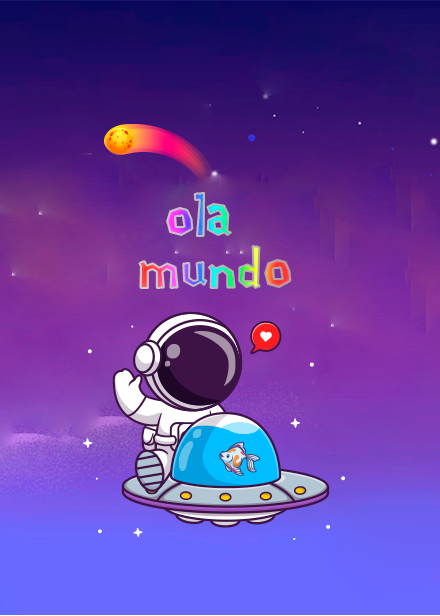
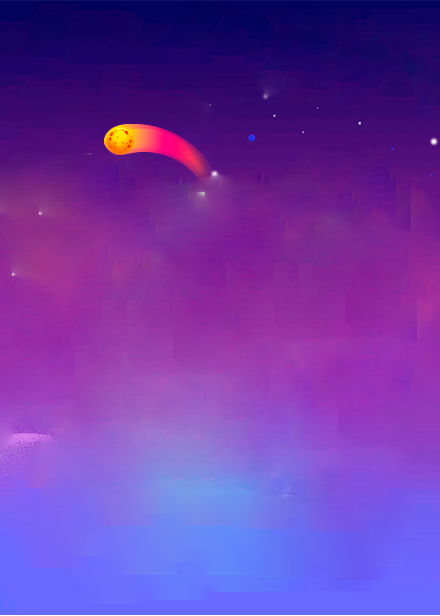
feito  grid e atualizaçãoes no responsivo

diff --git a/index.html b/index.html
@@ -10,6 +10,9 @@
     <script src="https://cdn.jsdelivr.net/npm/bootstrap@5.3.0-alpha1/dist/js/bootstrap.bundle.min.js"
         integrity="sha384-w76AqPfDkMBDXo30jS1Sgez6pr3x5MlQ1ZAGC+nuZB+EYdgRZgiwxhTBTkF7CXvN"
         crossorigin="anonymous"></script>
+    <link rel="preconnect" href="https://fonts.googleapis.com">
+    <link rel="preconnect" href="https://fonts.gstatic.com" crossorigin>
+    <link href="https://fonts.googleapis.com/css2?family=Poppins&display=swap" rel="stylesheet">
 
     <title>My Portfolio</title>
 </head>
@@ -18,27 +21,65 @@
 
     <main>
         <div class="container">
-
+                
             <div class="stars">
-                <img src="./assets/foguete.gif" alt="" class="clouds">
+                <img src="./assets/foguete.gif" alt="" class="clouds"> 
+                    <div class="responsi">
+                        <img src="./assets/spriter.png" width="70%" alt="atronauta">
+                        <h2>Olá mundo</h2>
+                    </div>
             </div>
-           
+              
+        </div>
+        
+
+        <div class="content">
+            <img src="./assets/caindo.png" width="500" alt="atronauta caindo">
+            <div class="information">
+                <h2>Quem sou eu </h2>
+                <p>Olá eu me chamo Laís Cristina este é o meu portfólio, eu sou uma garota apaixonada por tecnologia e
+                    livros eu gosto muito de games, jogar e contruir também estou atualmente no 2 semestre da faculdade
+                    e quero sar uma grande Desenvolvedora de software e não vou medir esforços para conseguir vou me
+                    mantém estudando sempre e sei que vou conseguir meu objetivo, como podem ver eu gosto de design
+                    também e ser Front End é uma grande alegria os códigos são minha maneira de expressar com um
+                    trabalho arduo que é possivel com tecnologia e estudo descobrir outros mundos..</p>
+            </div>
         </div>
         <!-- <button class="glow-on-hover" type="button">VEM ME CONHECER</button>  -->
         <div class="flip-box ">
             <div class=" face front">
                
-                <h2>Nunca deixe de sonhar</h2>
+                <video autoplay muted loop>
+                    <source src="./assets/video-first (1).mp4" type="video/mp4">
+                </video>
+                <video autoplay muted loop>
+                    <source src="./assets/video-first (2).mp4" type="video/mp4">
+                </video>
+                <video autoplay muted loop>
+                    <source src="./assets/video-first (3).mp4" type="video/mp4">
+                </video>
+                <video autoplay muted loop>
+                    <source src="./assets/video-first (4).mp4" type="video/mp4">
+                </video>
+            
+                <video autoplay muted loop>
+                    <source src="./assets/video-first (6).mp4" type="video/mp4">
+                </video>
+                <video autoplay muted loop>
+                    <source src="./assets/video-first (7).mp4" type="video/mp4">
+                </video>
+              
+
             </div>
             <div class="face back">
                 <h2>O mundo é feito de sonhos</h2>
             </div>
-           
+
         </div>
     </main>
     <footer>
-       <H2>Lais Cristina</H2>
-       <p>2023</p>
+        <H2>Lais Cristina</H2>
+        <p>2023</p>
     </footer>
 </body>
 

diff --git a/style.css b/style.css
@@ -2,6 +2,7 @@ body {
     margin: 0;
     padding: 0;
     box-sizing: border-box;
+font-family: 'Poppins', sans-serif;
 
 }
 
@@ -13,7 +14,7 @@ main {
 
 .container {
     width: 100%;
-    height: 900px;
+    height: 700px;
     text-align: center;
     background-image: url(./assets/imagem.png);
     background-position: center;
@@ -21,6 +22,9 @@ main {
     position: relative;
     overflow: hidden;
 
+}
+.container img{
+    display: none;
 }
 
 
@@ -63,16 +67,15 @@ footer {
 }
 
 .flip-box {
-    max-width: 990px;
-    height: 150px;
-    border-radius: 20px;
+    max-width: 100%;
+    height: 500px;
     position: relative;
-    transition: all 1000ms ease;
+    transition: all 800ms ease;
     transform-style: preserve-3d;
     text-align: center;
     font-size: 20px;
     margin: 0 auto;
-    margin-top: 50px;
+  
 
     display: flex;
     flex-direction: column;
@@ -80,33 +83,34 @@ footer {
    background-image: url(./assets/309.png);
     background-size: cover;
     background-position: center;
-
-
-
+    cursor: pointer;
 
 }
 
 .face {
     width: 100%;
-    height: 150px;
+    height: 500px;
     position: absolute;
     background-size: cover;
     background-position: center;
-    border: 2px solid #585fe7;
-    border-radius: 23px;
+    border: 2px solid #585fe7; 
     transition: all 400ms ease;
+    display: grid;
+    justify-content: center;
+    grid-template-columns: 200px 200px 200px;
+       gap: 90px;
 }
 
 .front {
     transform: rotateY(180deg);
     color: #24a8d8;
-
+        
 }
 
 .back {
+
 background-image: linear-gradient(to top,#a981bb 0%,#ffc8a9  49%, #585fe7 100%);
     backface-visibility: hidden;
-    border-radius: 23px;
     color: #fff;
 }
 
@@ -122,4 +126,22 @@ background-image: linear-gradient(to top,#a981bb 0%,#ffc8a9  49%, #585fe7 100%);
 .disabled-card {
     filter: saturate(0);
     opacity: 0.5;
+}
+.back h2{
+    margin-top: 100px;
+}
+.front h2{
+    margin-top: 120px;
+}
+
+.content{
+    display: flex;
+}
+.information{
+    text-align: center;
+    line-height: 30px;
+    text-transform: uppercase;
+}
+video{
+    width: 250px;
 }

diff --git a/responsivo.css b/responsivo.css
@@ -72,14 +72,48 @@
         background-image: url(./assets/imagem-2.png);
         background-position: center;
         background-size: cover;
-        height: 110vh;
-
-
+     
+    }
+    .container img{
+           display: flex;
+           margin-left: 80px;
+    }
+    .responsi{
+        display: flex;
+        justify-content: center;
+        flex-direction: column;
+        padding-top: 200px;
     }
     footer{
         padding: 2px;
      
       
         
+    }
+    .content {
+        display: flex;
+        flex-direction: column;
+        align-items: center;
+      
+
+    }
+    .content img{
+        width: 40%;
+     
+
+    }
+    .face{
+        width: 100%;
+    display:
+            grid;
+        grid-template-columns:
+            repeat(2, auto);
+        grid-template-rows:
+            70px 70px;
+       
+  
+    }
+    video{
+        width: 100% ;    
     }
 }
